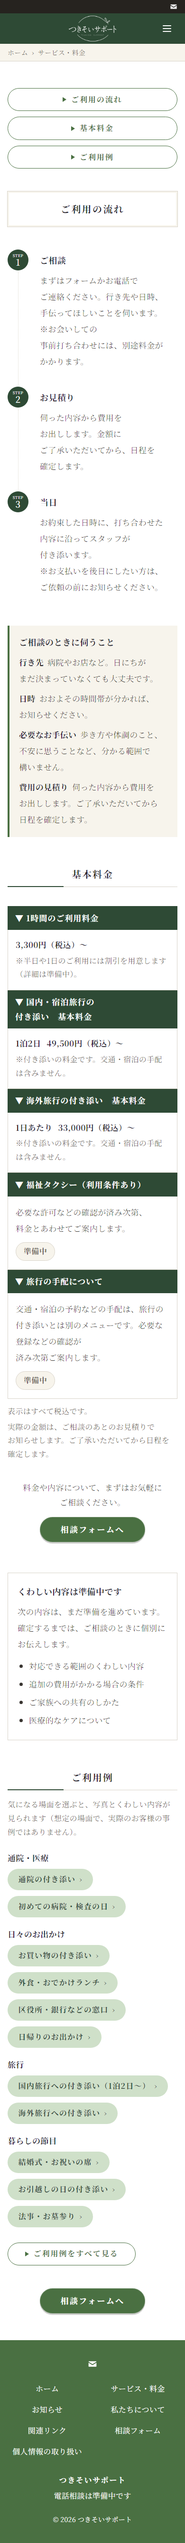
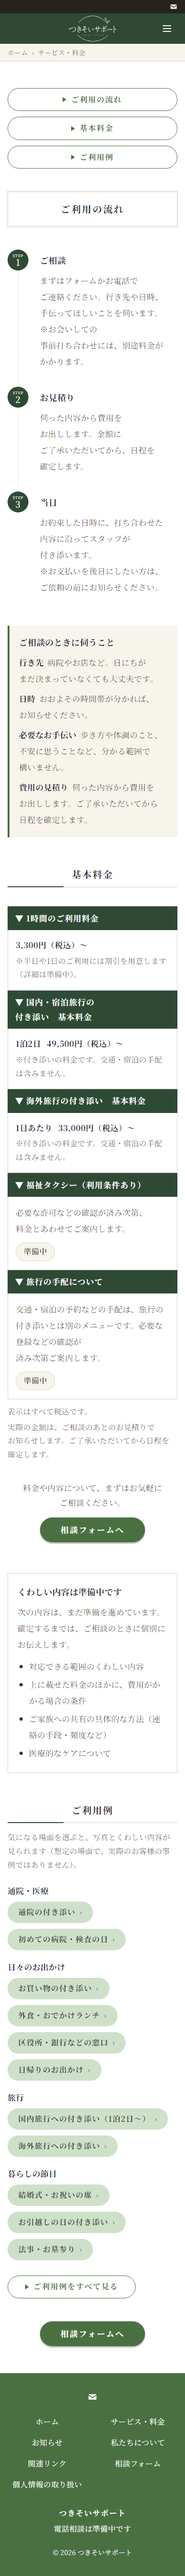
Codex 監査（バッチ D）の指摘に対応: 準備中項目の言い回しを限定、記事末尾の相談導線は受付前は準備中表示、テストで固定。HANDOFF・DECISIONS を更新

diff --git a/tests/site.spec.ts b/tests/site.spec.ts
@@ -707,7 +707,10 @@ test('scope, extra-fee terms, family sharing and medical care stay pending and a
   await page.goto('/service');
   const box = page.getByTestId('pending-scope');
   await expect(box).toContainText('準備中');
-  for (const word of ['対応できる範囲', '追加の費用', 'ご家族への共有', '医療的なケア']) await expect(box).toContainText(word);
+  for (const word of ['対応できる範囲', '料金のほかに、費用がかかる場合の条件', 'ご家族への共有の具体的な方法', '医療的なケア']) await expect(box).toContainText(word);
+  // 既に決まっているとも読める言い方（「追加費用はかかりません」「ご家族に必ず共有」など）にしない
+  const text = await box.innerText();
+  for (const word of ['かかりません', '無料', '必ず', 'いつでも', 'すべて対応']) expect(text, word).not.toContain(word);
   // 医療的ケアなどを「できる」と読める言い回しをサイト全体で書かない
   const CAN_DO = ['医療行為を行', '医療的ケアに対応', '医療的なケアに対応', '医療的ケアも', '医療的なケアも', '医療行為も', '看護', '介護保険'];
   for (const path of PAGES) {
@@ -720,9 +723,12 @@ test('scope, extra-fee terms, family sharing and medical care stay pending and a
 test('dead ends lead on: articles, preparing pages, privacy and 404 each offer a next step', async ({ page }) => {
   for (const path of ARTICLES) {
     await page.goto(path);
+    // このビルドは受付前（送信キーのみ・受付開始フラグなし）。「相談してください」と促さず、準備中と伝える
     const cta = page.getByTestId('article-cta');
-    await expect(cta.getByRole('link', { name: '付き添いについて相談する' })).toHaveAttribute('href', '/contact');
+    await expect(cta).toContainText('ご相談の受付は準備中です');
+    await expect(cta).not.toContainText('付き添いについて相談する');
     await expect(cta.getByRole('link', { name: 'サービス・料金を見る' })).toHaveAttribute('href', '/service');
+    await expect(cta.getByRole('link', { name: '受付の状況を見る' })).toHaveAttribute('href', '/contact');
   }
   await page.goto('/links');
   await expect(page.locator('main').getByRole('link', { name: 'サービス・料金を見る' })).toHaveAttribute('href', '/service');
@@ -748,6 +754,6 @@ test('preparing notice links price and flow to the real sections, and the target
 test('article consult button stays on one line at 320px', async ({ page }) => {
   await page.setViewportSize({ width: 320, height: 800 });
   await page.goto('/news/preparing-website');
-  const box = await page.getByRole('link', { name: '付き添いについて相談する' }).boundingBox();
+  const box = await page.getByTestId('article-cta').locator('.btn-solid').boundingBox();
   expect(box!.height).toBeLessThan(60);
 });

diff --git a/tests/sample-preview.spec.ts b/tests/sample-preview.spec.ts
@@ -133,3 +133,13 @@ test('form is open only when both the key and the open flag are set', async ({ p
   await expect(page.locator('a[href="#contact-form"]').first()).toBeVisible();
   await expect(page.locator('main')).not.toContainText('公開準備中');
 });
+
+// 受付開始（キー＋PUBLIC_FORM_OPEN=1）のときだけ、記事末尾が相談を促す。受付前は site.spec.ts が準備中の表示を固定している
+for (const path of ARTICLES) {
+  test(`article ends with a consult button when the form is open: ${path}`, async ({ page }) => {
+    await page.goto(path);
+    const cta = page.getByTestId('article-cta');
+    await expect(cta.getByRole('link', { name: '付き添いについて相談する' })).toHaveAttribute('href', '/contact');
+    await expect(cta).not.toContainText('受付は準備中です');
+  });
+}

diff --git a/docs/HANDOFF.md b/docs/HANDOFF.md
@@ -2,7 +2,7 @@
 
 毎回の終わりに Claude Code が更新する。新しいチャットはここから始める。
 
-最終更新: 2026-10-11（バッチ B・C 実装・監査済み。次は PR 作成の確認 → バッチ D）
+最終更新: 2026-10-11（バッチ D 実装・監査対応済み。次は PR 作成の確認 → バッチ E）
 
 ## 環境
 
@@ -14,6 +14,7 @@
 
 ## 現在地
 
+- **PR #4（バッチ B・C、`claude/batch-bc`）は 2026-10-11 時点で GitHub 上は OPEN（未マージ）**。バッチ D（`claude/batch-d`）はその上に積んである。マージ順は #4 → D の PR。
 - **PR #3 は 2026-10-11 に利用者がマージ済み**（master = `6e19839`）。トップの全面スライド・料金表・ロゴ、バッチ A（相談フォーム整理）、Cloudflare 移行の準備、ご利用例11件と写真（トップ5枚・ご利用例11枚）、ボタンの動きまでが master に入った。Vercel の Production は新しい見た目になる。
 - 検証（マージ時）: `astro check` 0 errors、Playwright 192件成功。Codex 監査: バッチ A（段階 2・再監査済み）、Cloudflare（段階 2）、ご利用例（段階 1・指摘4件修正済み）。
 - `SITE.PUBLISHED = false`（全ページ noindex）のまま。公開判断は含まない。
@@ -60,13 +61,17 @@ Codex の分析・提案（C、対象 6fb7992、1440/390/320px の33画面を確
 3. **バッチ C（CTAと導線）（実装済み・2026-10-11、ブランチ `claude/batch-bc`。Codex 監査（段階 1、B・C まとめて、gpt-5.6-sol）済み: 重大0・中0・軽微2 → 採用して修正済み）**: ③ トップのスライド直下に相談CTA（主「相談フォームへ」高さ52px以上・副「料金・利用の流れ」）、④ 導入文の直後に「料金を見る／ご利用の流れ／大切にしていること」（`/service#prices` `/service#flow` `/about#policy`。`#policy` を about に追加）、サービスの先頭にページ内リンク（流れ・料金・ご利用例）と料金表の直後に「相談フォームへ」、⑧ ナビ名を「サービス・料金」「相談フォーム」に統一（`config.ts`・パンくず・ページ名・フッター・アイコンの aria-label・ボタン文言）、デスクトップは「相談フォーム」を薄い面で区別、スマホメニューは相談を先頭、フッターはスマホ2列。固定帯（MobileFixedBar）は再導入していない。検証: astro check 0 errors、Playwright 200件成功、1440/390px のスクリーンショットは `docs/review-screenshots/cta-20261011-*`。
    - Codex 監査の軽微2件を採用: ①トップの副CTA「料金・利用の流れ」は `/service`（先頭のページ内リンクから流れ・料金へ）に変更 ②`#flow` を見出しの直前に移した（遷移時に見出しが隠れないよう）。監査の呼び出しは、最初にシェルが先に終わって Codex が途中で止まった（結果ファイルなし）ので、バックグラウンドで直接実行して取り直した。
    - **バッチ B の不具合を C の作業中に発見して修正**: Tailwind の `text-base` はこのサイトでは文字サイズではなく色（`--color-base` = 白）になる。B で `text-sm`→`text-base` に置換したため、多くの注記・本文が白抜きで消えていた（B の push `847ee8d` に含まれる）。`text-[1rem]` に置き換え、`html` のサイズは 16px に戻し本文だけ `body` で 17px にした（rem の基準を変えない）。再発防止のテスト（`text-base` の使用禁止、導入枠の文字色）を追加。全ページの文字色の自動点検（コントラスト 4.5:1 未満の文字）は、飾りの「404」以外なし。
-4. **バッチ D（内容と行き止まり）**: ⑥（骨格のみ）+ ⑦。許認可・対応範囲に関わる文言があるので段階 2。**利用者の判断（2026-10-10）: 対応範囲・追加費用の条件・家族への共有方法・医療的ケアの可否は、まだ準備中のままでよい。** 断定せず、「詳しい対応範囲は準備中です」のように控えめに書く（医療的ケアを提供できるようには書かない）。
+4. **バッチ D（内容と行き止まり）（実装済み・2026-10-11、ブランチ `claude/batch-d`。Codex 監査（段階 2、gpt-5.6-sol）は指摘に対応済み・再監査は未実施）**: ⑥ サービスに「ご相談のときに伺うこと」（行き先・日時・必要なお手伝い・費用の見積り。既存の文面の整理）、料金表の下に「ご了承いただいてから日程を確定します」、「くわしい内容は準備中です」（対応できる範囲／上に載せた料金のほかに費用がかかる場合の条件／ご家族への共有の具体的な方法／医療的なケア。すべて準備中・個別に相談、できるとは書かない）。⑦ 記事末尾の相談導線（`article-cta`。**受付前は「ご相談の受付は準備中です」＋「サービス・料金を見る」「受付の状況を見る」、受付開始（`PUBLIC_FORM_KEY` + `PUBLIC_FORM_OPEN=1`）後だけ「付き添いについて相談する」**）、準備のお知らせの料金・流れ・相談フォーム・私たちについて・関連リンクを実リンクに、`/about` の代表者欄は4つの「準備中」を1行にまとめた、`/links` に「サービス・料金を見る」、`/privacy` 末尾に「相談フォームに戻る」、404 に「サービス・料金を見る」。`/thanks` と `/privacy` に強い営業CTAは足していない。検証: astro check 0 errors、Playwright 207件成功、1440/390px は `docs/review-screenshots/batchd-20261011-*`。
+   - Codex 監査（重大0・中3・軽微1）への対応: ①追加費用の準備中項目を「上に載せた料金のほかに…」に限定（既存の「事前打ち合わせは別途料金」と矛盾しないように）②家族共有を「具体的な方法（手段・頻度など）」に限定 ③記事末尾の CTA を受付前は準備中の表示に ④受付前・受付中の両方をテストで固定（`site.spec.ts` と `sample-preview.spec.ts`）。**再監査はまだ**（変更は文言と表示の切り替えのみ。利用者が必要と判断したら、観点を絞って段階 1 で）。
+   - **Codex 呼び出しの注意（Git Bash・バックグラウンド）**: `cat prompt | codex exec ... -` は「No prompt provided via stdin」で止まる（今回2回）。日本語のプロンプトを PowerShell の引数にすると文字化けの恐れ。**動いた方法**: `codex exec -m gpt-5.6-sol -s read-only -C . -o <結果> "<英語の短い指示: プロンプトファイルを読んで従う>"`。ただし Codex は `.codex-out/` のプロンプトを読めず、HANDOFF と差分から範囲を復元して監査した（結果に明記あり）。次回は依頼文を英語の指示に直接含めるか、`.codex-out` 以外に置く。**利用者の判断（2026-10-10）: 対応範囲・追加費用の条件・家族への共有方法・医療的ケアの可否は、まだ準備中のままでよい。** 断定せず、「詳しい対応範囲は準備中です」のように控えめに書く（医療的ケアを提供できるようには書かない）。
 5. **バッチ E（装飾）**: ⑨ の採用分。段階 1（軽く）。
 6. 区切りがついたら、master へのマージ（PR）を利用者に確認する（現在の見た目は master 未マージ）。
 
 各バッチで 1440/390px のスクリーンショットを `docs/review-screenshots/` に保存し、機能・公開前方針に関わる変更は `tests/` に固定する（CLAUDE.md 4）。モデル・強度の目安: 実装は Sonnet 5.5 / 高。Codex の監査結果の取捨選択は同じセッションで続ける（途中でモデルを替えない）。
 
 ## 利用者に確認が要ること
+
+- **（Codex 指摘より・バッチ D）既存の文面で、確定済みか確かめたいもの**: ①サービス「ご利用の流れ」の「お会いしての事前打ち合わせには、別途料金がかかります」（追加費用の条件は準備中としたため、この一文だけが確定扱いになっている）②`/about` の「当日の様子は、ご希望に応じてご家族にもお伝えします」（家族への共有の具体的な方法は準備中としているため）。確定していなければ「準備中」の表現に直す。
 
 回答済み（2026-10-10）: ふりがな項目は外す／ナビ名は「サービス・料金」「相談フォーム」（一任）／対応範囲などは準備中のまま。
 

diff --git a/docs/DECISIONS.md b/docs/DECISIONS.md
@@ -3,6 +3,8 @@
 1行ずつ。新しいものを上に足す。形式: `日付 | 決めたこと | 理由`。
 決めた人が利用者のものは「（利用者）」と付ける。
 
+- 2026-10-11 | Codex 監査（段階 2、バッチ D）: 重大0・中3・軽微1。採用: 追加費用・家族共有の準備中項目の言い回しを限定／記事末尾の CTA は受付前は準備中の表示に（受付開始後のみ「相談する」）／受付前・受付中の両方をテストで固定。**保留（利用者の確認）**: 既存の「事前打ち合わせは別途料金」と `/about` の「ご家族にもお伝えします」が確定済みか。再監査は未実施 | 未確定の条件を、確定事項と読ませない（CLAUDE.md 1）。受付前に「相談してください」と促さない
+- 2026-10-11 | バッチ D を実装: 相談時に伺うこと・見積りの注記・準備中項目（対応範囲／追加費用の条件／家族への共有の具体的な方法／医療的ケア。断定しない、できるとは書かない）、記事末尾・links・privacy・404 の次の一歩、準備のお知らせの実リンク、about の代表者欄を1行にまとめた。`/thanks` と `/privacy` に強い営業CTAは足さない。PR #4 が未マージのため、ブランチは `claude/batch-bc` の上に作った `claude/batch-d` | 行き止まりを減らしつつ、利用者が確定していない内容を書かない（利用者の 2026-10-10 の判断を実施）
 - 2026-10-11 | Codex 監査（段階 1、バッチ B・C）: 重大0・中0・軽微2。採用: 副CTAを `/service` へ、`#flow` を見出し直前へ。却下なし | 導線の不一致を直す
 - 2026-10-11 | バッチ C を実装: ナビ名「サービス・料金」「相談フォーム」に統一、トップ直下に相談CTA、ページ内リンク（`#prices` `#flow` `#policy` `#examples`）、スマホメニューは相談を先頭、フッターはスマホ2列。未受付のフォームへは誘導せず、主CTAは `/contact`（受付前は「公開準備中」の説明が出る）。固定帯は再導入しない。**`text-base` は使わない**（このサイトでは白文字になる。16px は `text-[1rem]`）。バッチ B の不具合として修正。`html` は16pxのまま、本文だけ `body` で17px | 相談への道筋を短くする（利用者の依頼、2026-10-10 の決定の実施）／rem の基準を動かさない
 - 2026-10-11 | バッチ B（文字）を実装: 本文17px・行間1.8、補助は14px以上、ボタン16px、ナビ17px、フッターのリンクは高さ44px以上、英語の小ラベルは装飾（`aria-hidden`）。参考サイトに揃える方針からの意図的な差（利用者の依頼による見直し、2026-10-10 の決定の実施） | 高齢の本人・家族が読みやすいように
